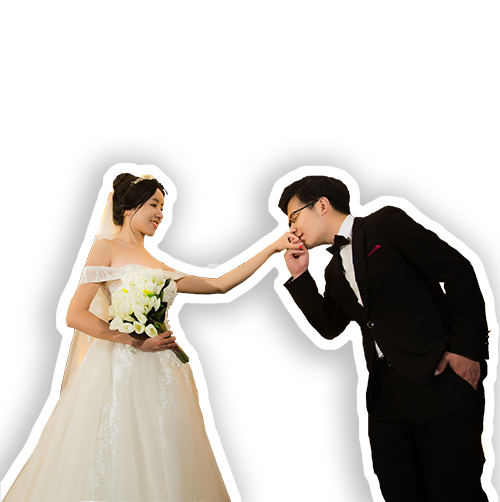
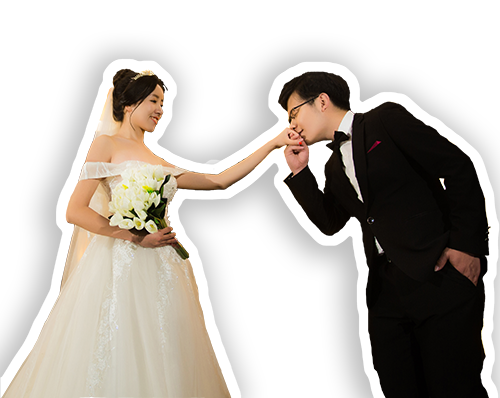
move image up to main screen

diff --git a/MobApp-colorlib/index.html b/MobApp-colorlib/index.html
@@ -83,7 +83,7 @@ URI     : https://colorlib.com
             <h1><span style='font-size: 0.45em'>真诚邀请您参加</span><br/><b><img class="main-title" src="images/miyang-wedding-title.png" class="img-fluid" alt="miyang 米阳"></b></h1>
             <p class="tagline">2018年5月1日·中午12:00<br/>四川·成都·青白江·湖景壹号樱花厅</p>
         </div>
-        <div class="img-holder mt-3"><img src="images/lantern-kiss-cover.png" alt="phone" class="img-fluid"></div>
+        <div class="img-holder mt-3"><img src="images/lantern-kiss-cover.png" alt="main image" class="img-fluid"></div>
     </header>
 
 <!--     <div class="client-logos my-5">

diff --git a/MobApp-colorlib/css/style.css b/MobApp-colorlib/css/style.css
@@ -234,7 +234,8 @@ p.lead {
 ----------------------*/
 
 header {
-    padding: 100px 0 0 0px;
+    /*height:auto;*/
+    padding: 50px 0 0 0px;
     text-align: center;
     color: #FFF;
 }
@@ -256,14 +257,14 @@ header {
 }
 
 .img-holder {
-    height: 0;
-    padding-bottom: 33%;
+    /*height: 0;*/
+    padding-bottom: 0;
     overflow: hidden;
 }
 
 @media (max-width:1200px) {
     .img-holder {
-        padding-bottom: 50%;
+        padding-bottom: 0;
     }
 }
 
@@ -272,7 +273,7 @@ header {
         font-size: 17px;
     }
     .img-holder {
-        padding-bottom: 100%;
+        padding-bottom: 0; /*100%;*/
     }
 }
 
